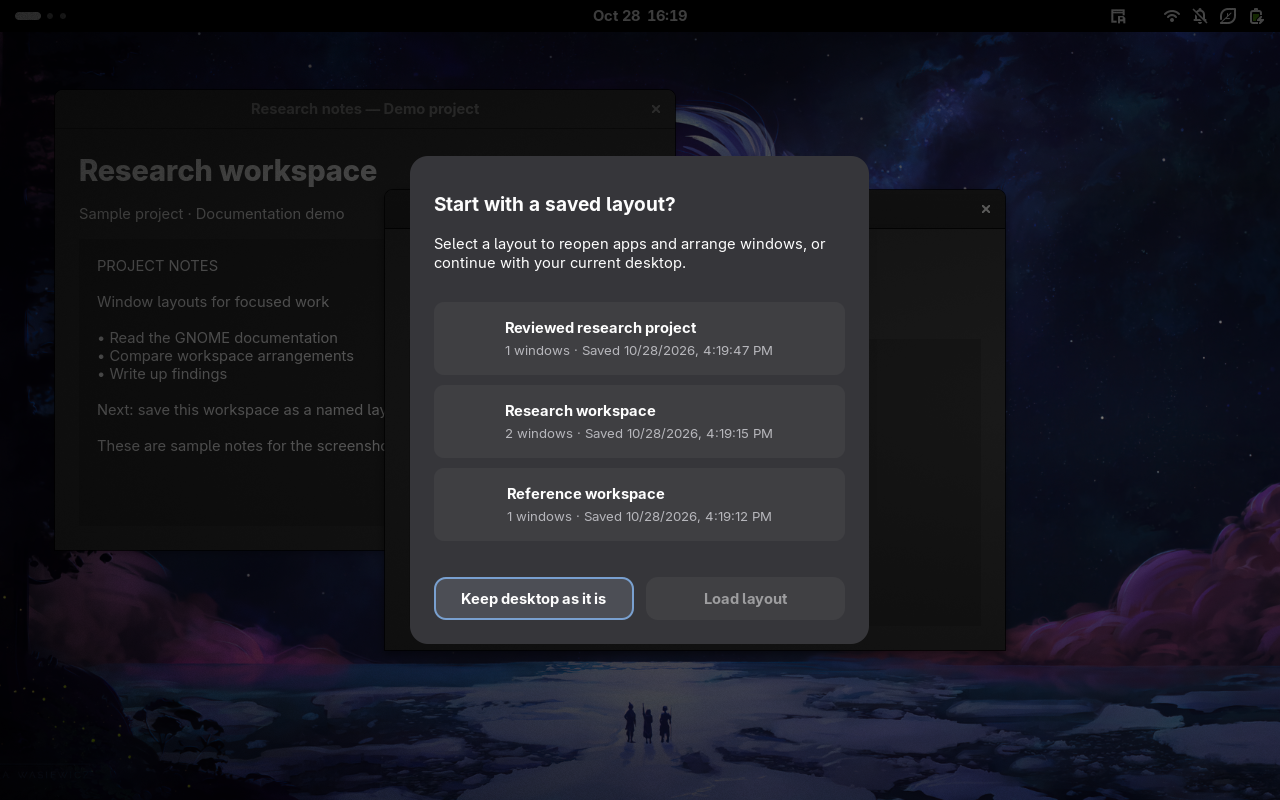
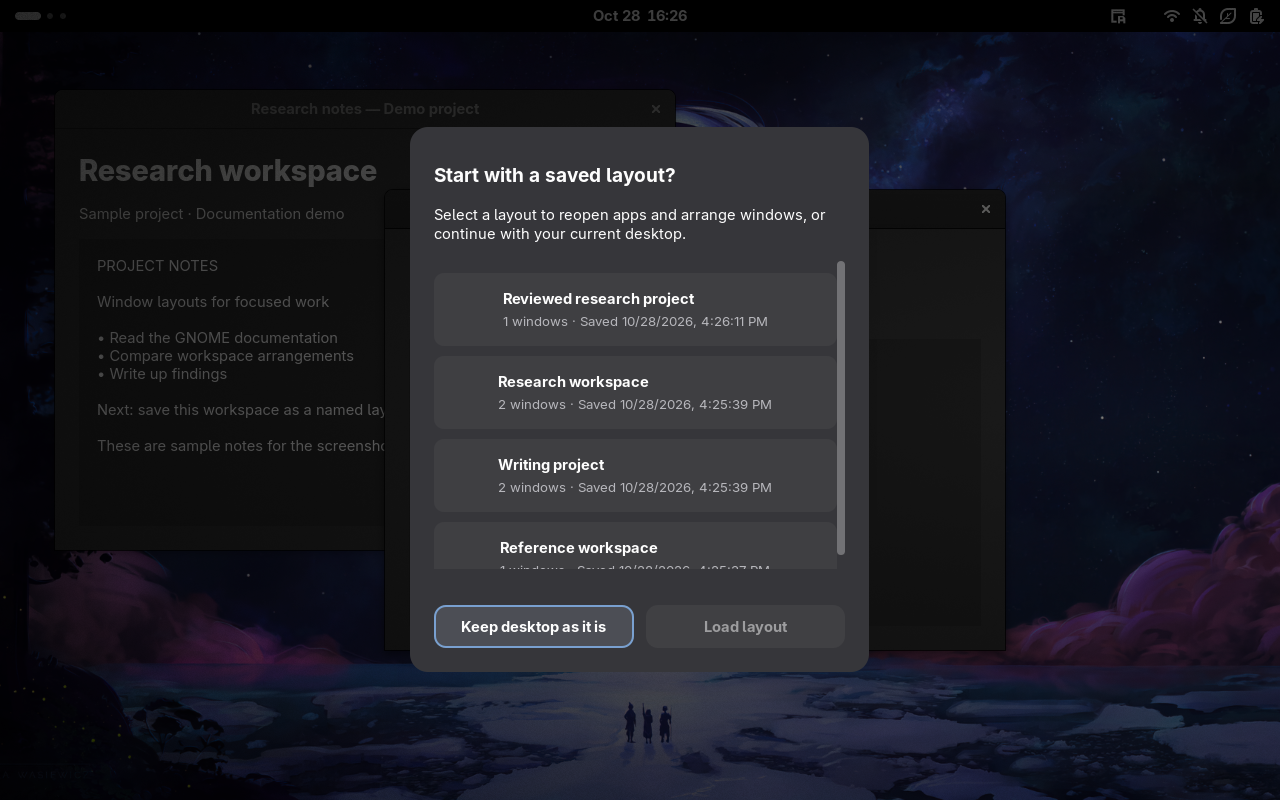
Show saved layout dropdown and populated library in README

Changed region(s): [[0.3125, 0.1562, 0.6875, 0.8438], [0.6562, 0.3438, 0.6875, 0.6875]]

diff --git a/tests/shell-smoke.js b/tests/shell-smoke.js
@@ -129,6 +129,8 @@ export async function run() {
         fresh.windows = (await capture('Research workspace', new Set(testWindows()))).windows;
         fresh.name = 'Research workspace';
         (await store.write(fresh));
+        if (GLib.getenv('WINDOWKEEP_DOC_SCREENSHOTS'))
+            await store.write({...fresh, id: GLib.uuid_string_random(), name: 'Writing project', login: 'documentation-previous-session'});
         Main.overview.hide();
         await Scripting.waitLeisure();
         ext.stateObj._indicator.menu.open();
@@ -138,6 +140,13 @@ export async function run() {
         await screenshot(`${GLib.getenv('WINDOWKEEP_REAL_SOURCE')}/docs/panel.png`);
         ext.stateObj._indicator.menu.close();
         if (GLib.getenv('WINDOWKEEP_DOC_SCREENSHOTS')) {
+            ext.stateObj._indicator.menu.open();
+            await ext.stateObj._refresh();
+            const saved = ext.stateObj._indicator.menu._getMenuItems().find(item => item.label?.text === 'Saved layouts');
+            saved.menu.open();
+            await Scripting.sleep(400);
+            await screenshot(`${GLib.getenv('WINDOWKEEP_REAL_SOURCE')}/docs/saved-layouts-menu.png`);
+            ext.stateObj._indicator.menu.close();
             for (const [type, filename] of [[0, 'logout-reminder'], [1, 'shutdown-reminder']]) {
                 await Main.endSessionDialog.OpenAsync([type, global.get_current_time(), 60, []], {
                     return_value() {},
@@ -156,6 +165,8 @@ export async function run() {
         prefsWindow.activate(global.get_current_time());
         await Scripting.sleep(400);
         await Scripting.waitLeisure();
+        if (GLib.getenv('WINDOWKEEP_DOC_SCREENSHOTS'))
+            await waitFor(() => Gio.File.new_for_path(`${GLib.get_user_runtime_dir()}/windowkeep-prefs-ready`).query_exists(null));
         await screenshot(`${GLib.getenv('WINDOWKEEP_REAL_SOURCE')}/docs/preferences.png`);
         if (GLib.getenv('WINDOWKEEP_DOC_SCREENSHOTS')) {
             await Scripting.sleep(3500);

diff --git a/tests/prefs-smoke.js b/tests/prefs-smoke.js
@@ -44,6 +44,16 @@ app.connect('activate', () => {
     window.set_visible_page_name('layouts');
     print('WINDOWKEEP_PREFS_PASS');
     if (GLib.getenv('WINDOWKEEP_DOC_SCREENSHOTS')) {
+        GLib.timeout_add(GLib.PRIORITY_DEFAULT, 100, () => {
+            const row = find(window, widget => widget instanceof Adw.ExpanderRow && widget.title === 'Research workspace');
+            if (!row) return GLib.SOURCE_CONTINUE;
+            row.expanded = true;
+            GLib.timeout_add(GLib.PRIORITY_DEFAULT, 400, () => {
+                GLib.file_set_contents(`${GLib.get_user_runtime_dir()}/windowkeep-prefs-ready`, 'ready');
+                return GLib.SOURCE_REMOVE;
+            });
+            return GLib.SOURCE_REMOVE;
+        });
         GLib.timeout_add(GLib.PRIORITY_DEFAULT, 3000, () => { window.set_visible_page_name('settings'); return GLib.SOURCE_REMOVE; });
         GLib.timeout_add(GLib.PRIORITY_DEFAULT, 7000, () => { window.set_visible_page_name('advanced'); return GLib.SOURCE_REMOVE; });
     }
@@ -52,4 +62,4 @@ app.connect('activate', () => {
         return GLib.SOURCE_REMOVE;
     });
 });
-app.run([]);
+await app.runAsync([]);

diff --git a/README.md b/README.md
@@ -70,6 +70,12 @@ behavior to work.
 
 ## Find and manage saved layouts
 
+Expand **Saved layouts** in the panel to choose an inactive layout to load.
+
+![Expanded Saved layouts dropdown in the top panel](docs/saved-layouts-menu.png)
+
+Open **Manage saved layouts…** for the full library shown below.
+
 Search by name and sort by newest saved, oldest saved, last modified, or name.
 Expand a layout to rename, duplicate, export or delete it. Import accepts local
 JSON files and creates a new layout rather than overwriting an existing one.
